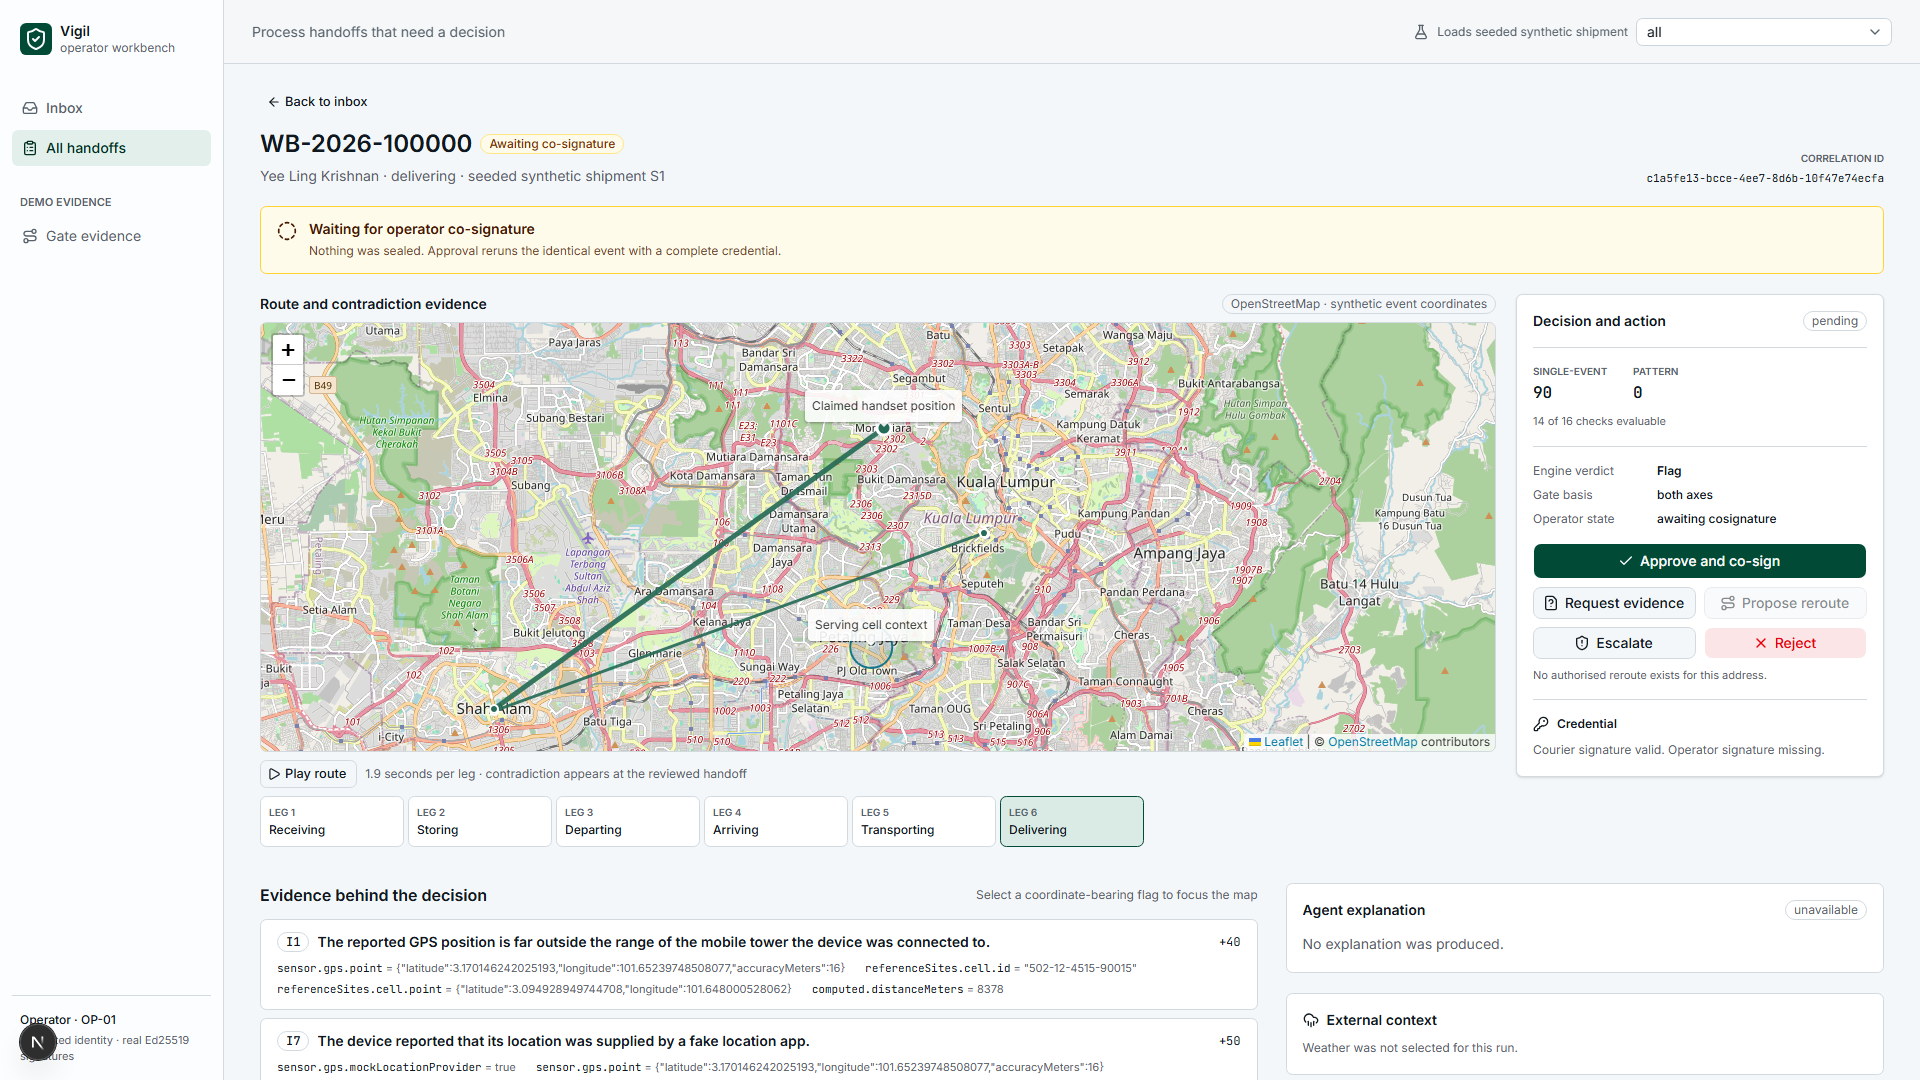
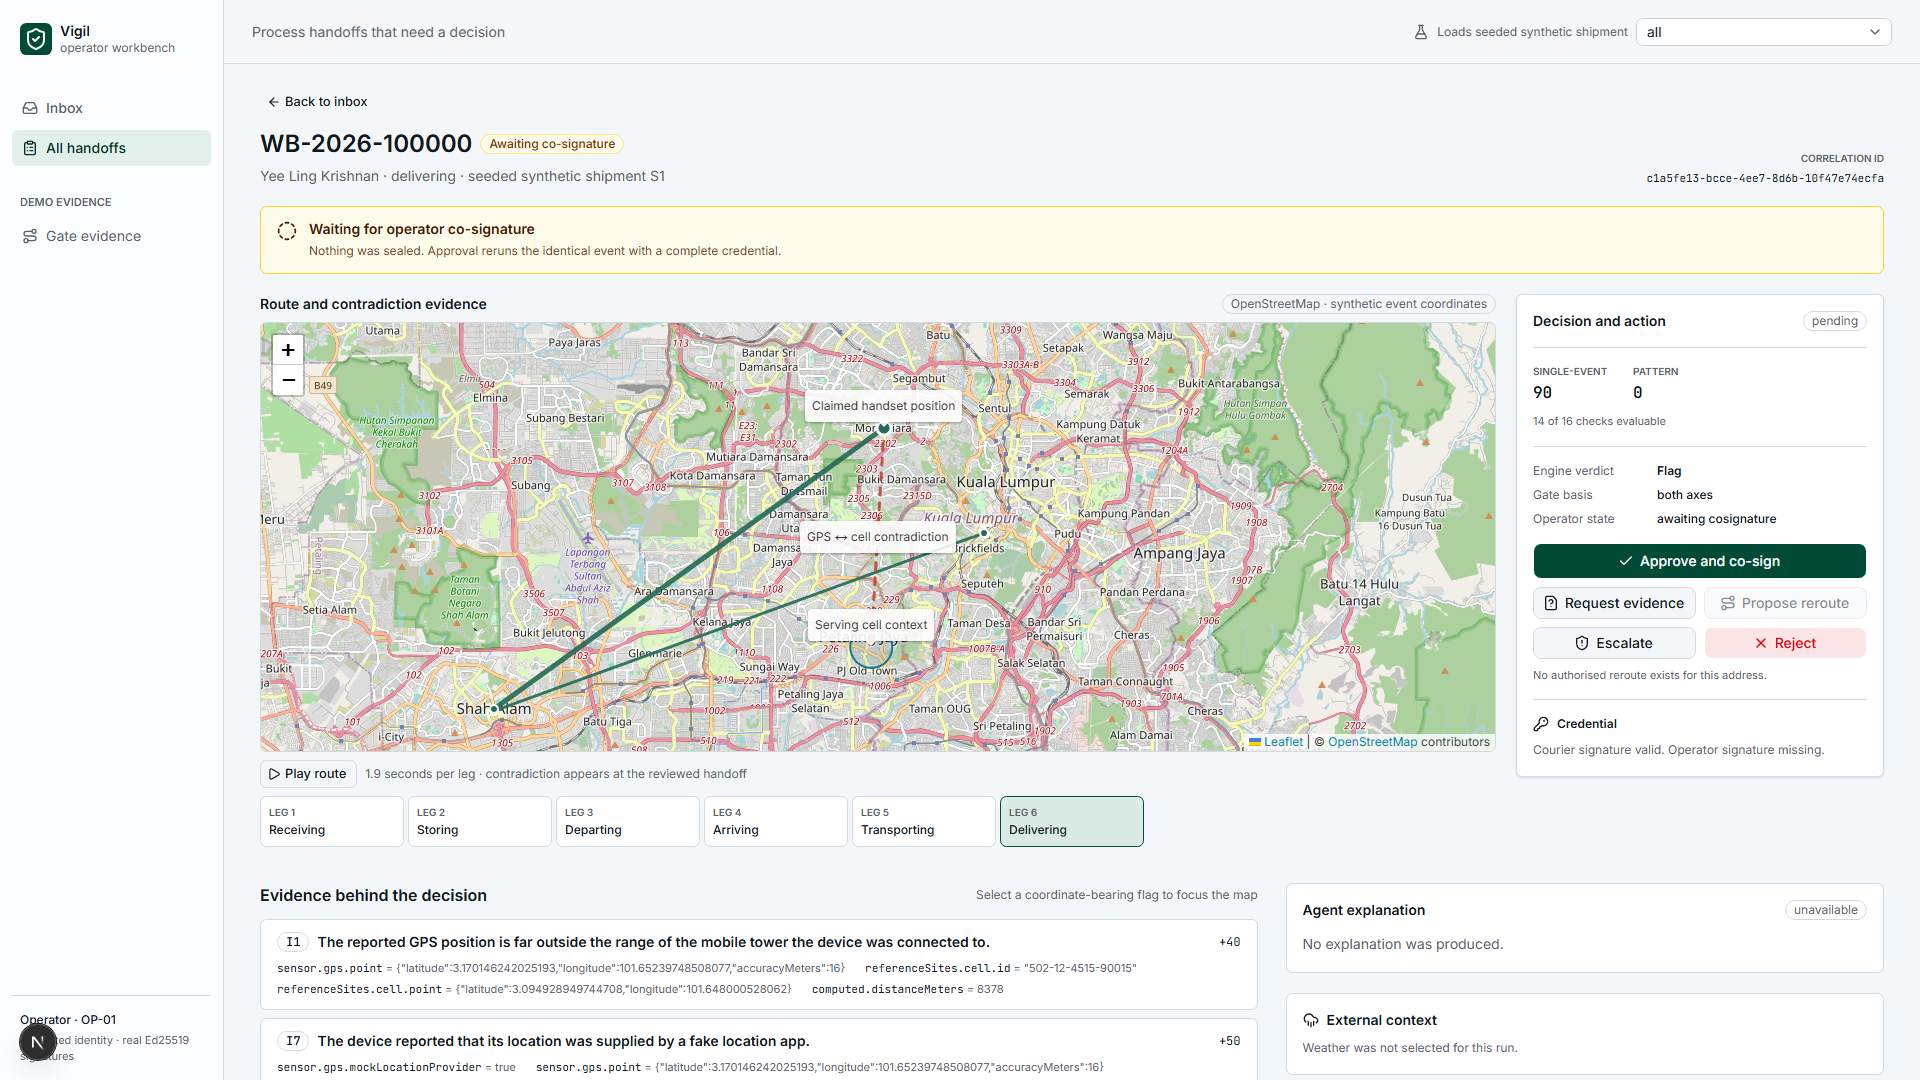
fix(qa): capture the pending co-signature the courier now creates
Reserving S1's delivery leg for the courier removed the pending case from
the operator's queue at boot - which is the real flow, and which silently
broke `npm run qa:capture`. A capture script that assumes a fixture
exists is a fixture dependency nobody declared, and only running it found
that.

The script now submits the S1 draft as the courier before looking for the
pending case, so it captures the flow rather than a fixture. It also
captures /courier, which is part of the demo now. If the draft has
already been co-signed in the running process the lookup fails loudly
rather than writing a frame that does not show what its filename claims.

Blank-frame diagnosis, timeboxed: the headless capture path is healthy -
all five frames render at 1920x1080 with leaflet tiles loaded, under
--virtual-time-budget=5000 and --run-all-compositor-stages-before-draw.
The blank frames came from the interactive browser pane's screenshot
tool, which is a different path and not the one the demo video uses.

Also records two house rules:

- 3g: text that restates a decision must be derived from the decision,
  with the three instances now in the codebase. A correct message that
  does not tell the operator what to do next has not done its job.
  Corollary: never fabricate a rationale nobody produced - presenting the
  heuristic's reasons under the model's choice is a hallucinated citation
  moved from the explanation node into the UI layer.
[…]

diff --git a/CLAUDE.md b/CLAUDE.md
@@ -447,6 +447,41 @@ two layers:
   updating in place is the failure. Both layers were confirmed non-vacuous by injecting a real
   mutation and reading the failure message, as with the never-summed and no-I/O guards.
 
+### 3g. Text that restates a decision must be DERIVED from the decision
+
+Three instances now, all the same instinct, so it is recorded once as a rule rather than three
+times as observations:
+
+| Surface | Derived from | The hardcoded version |
+|---|---|---|
+| Courier submission result | `VerificationResult` + `ledgerStatus` | "your submission needs approval" — still said after the credential check changed its mind |
+| Reroute rejected alternatives | the selector's own filter predicates | "no authorised reroute exists" — true, and useless |
+| Plan rejected alternatives | `considerTools`, over the closed enum | a UI re-deriving "why not that one?" — a second copy of the eligibility rules |
+
+**A correct message that does not tell the operator what to do next has not done its job.**
+*"No authorised reroute exists for this address"* is true of every excluded candidate and actionable
+for none of them. *"This parcel is outside the mandate's EPC scope"* names the blocker, so the
+operator knows whether to widen a mandate, activate a counter, or escalate instead. `covers`
+therefore became `refusal`, returning the predicate that failed rather than a boolean.
+
+And the drift argument is the same one that bans recomputing a verdict in the browser: a view that
+works out its own explanation is a **second implementation** of the rule it is explaining, and the
+two part company the first time the rule moves. Ask the decider why; never re-derive it downstream.
+
+#### The corollary: never fabricate a rationale nobody produced
+
+When the **model** selects the tools, the panel shows the deterministic set as a **labelled
+comparison** — never as the model's reasoning. The model is not asked to justify itself, and
+presenting the heuristic's reasons under its choice would invent a justification that does not
+exist.
+
+**That is the same class of error as a hallucinated citation (rule 1a), moved from the explanation
+node into the UI layer.** Prose assembled from a picture of something that did not happen reads as
+sourced precisely because it is well-formed. A future session adding *"why did the model pick
+this?"* to that panel will believe it is an improvement; it is the failure rule 1a exists to
+prevent, one layer further out. If the reason cannot be obtained from whoever actually decided,
+the honest rendering is to say who decided and show the alternative separately.
+
 ### 4. Missing evidence is not clean evidence
 
 Every rule returns **three** states, never a boolean:
@@ -546,6 +581,7 @@ re-deriving it each time — or worse, "simplifying" one of them back.
 | Gate explorer (rule 3e) | plot `not_evaluated` at the origin | an unmeasured axis becomes a measured zero |
 | Map overlays (rule 3e) | give every flag a location | evidence without coordinates becomes a spatial claim |
 | `RunView.ledgerStatus` | `sealed: boolean` | an honest double-tap and a forgery attempt become the same event |
+| `ToolConsideration` | `selected: boolean` alone | "eligible but displaced by the cap" collapses into "not relevant", hiding that a real option was left on the table |
 
 The last one is session 17B's. `sealed` collapses the ledger's `recorded` and `noop` into one
 value. That is exactly right for the operator's question — *is there an entry?* — and exactly
